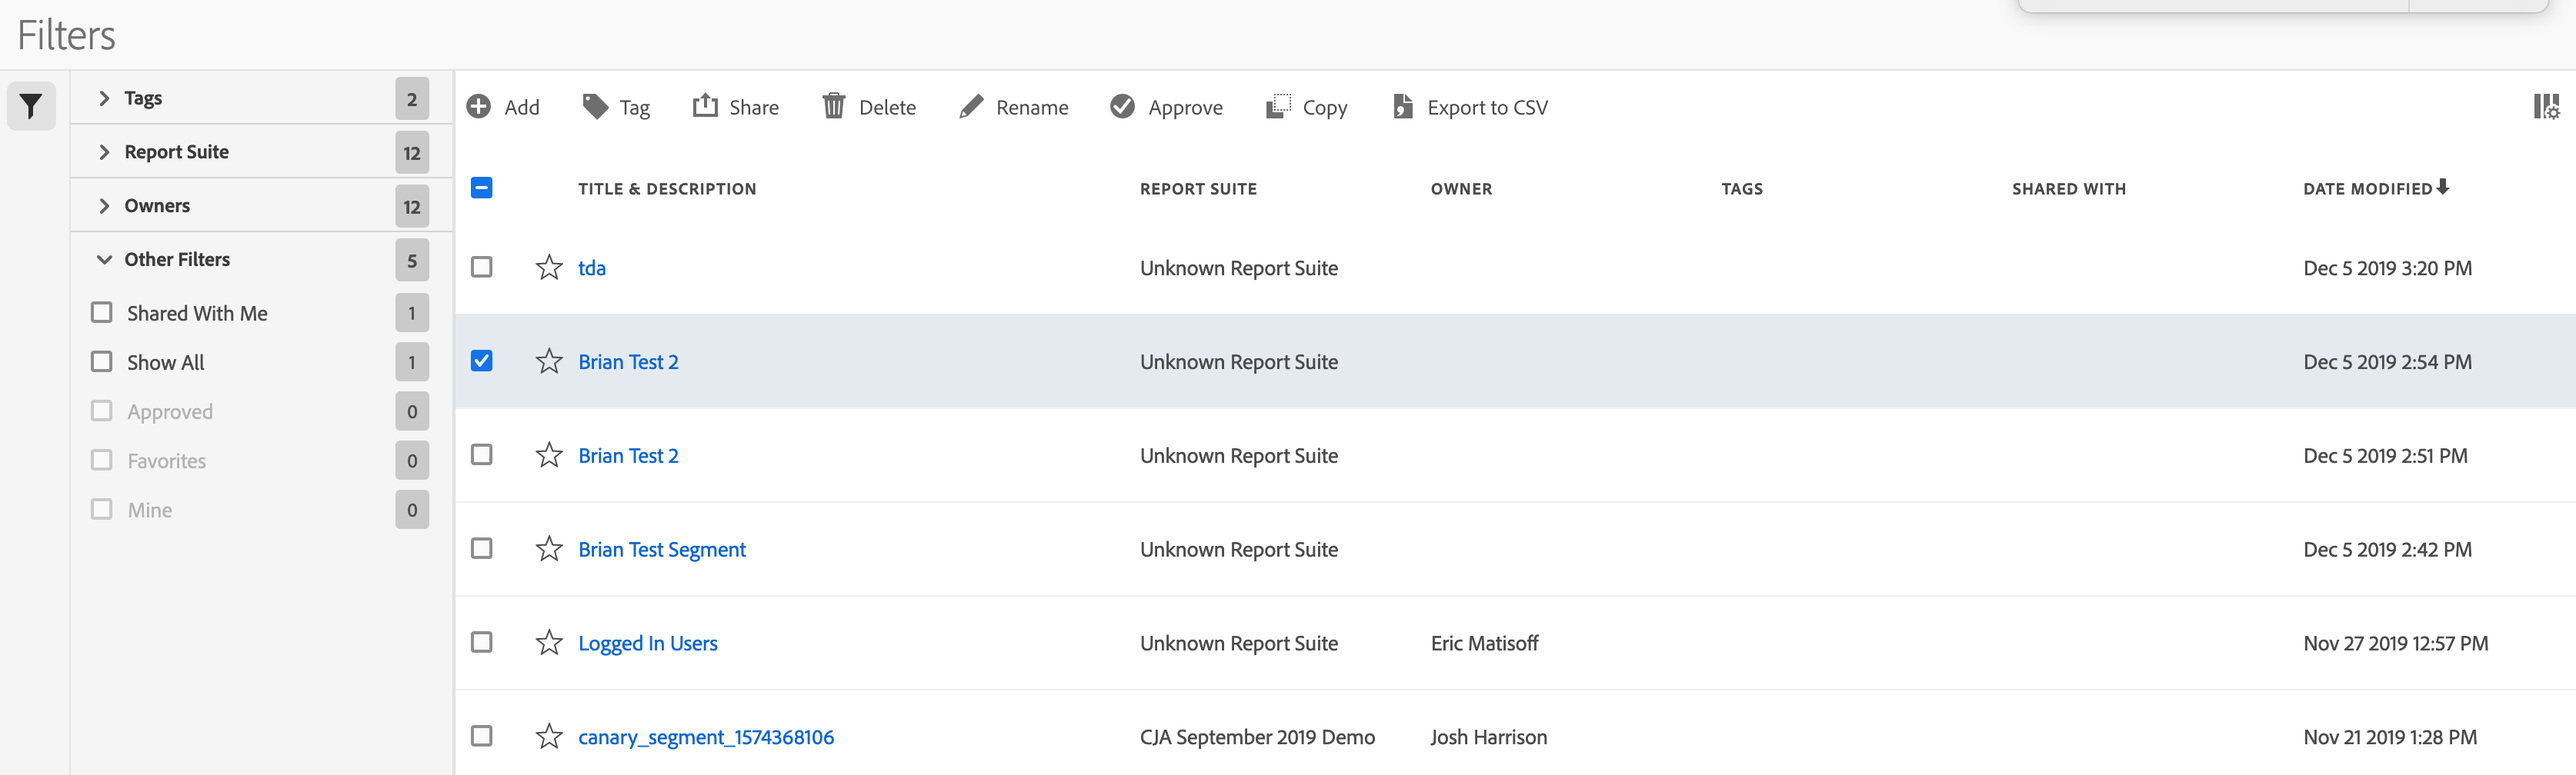
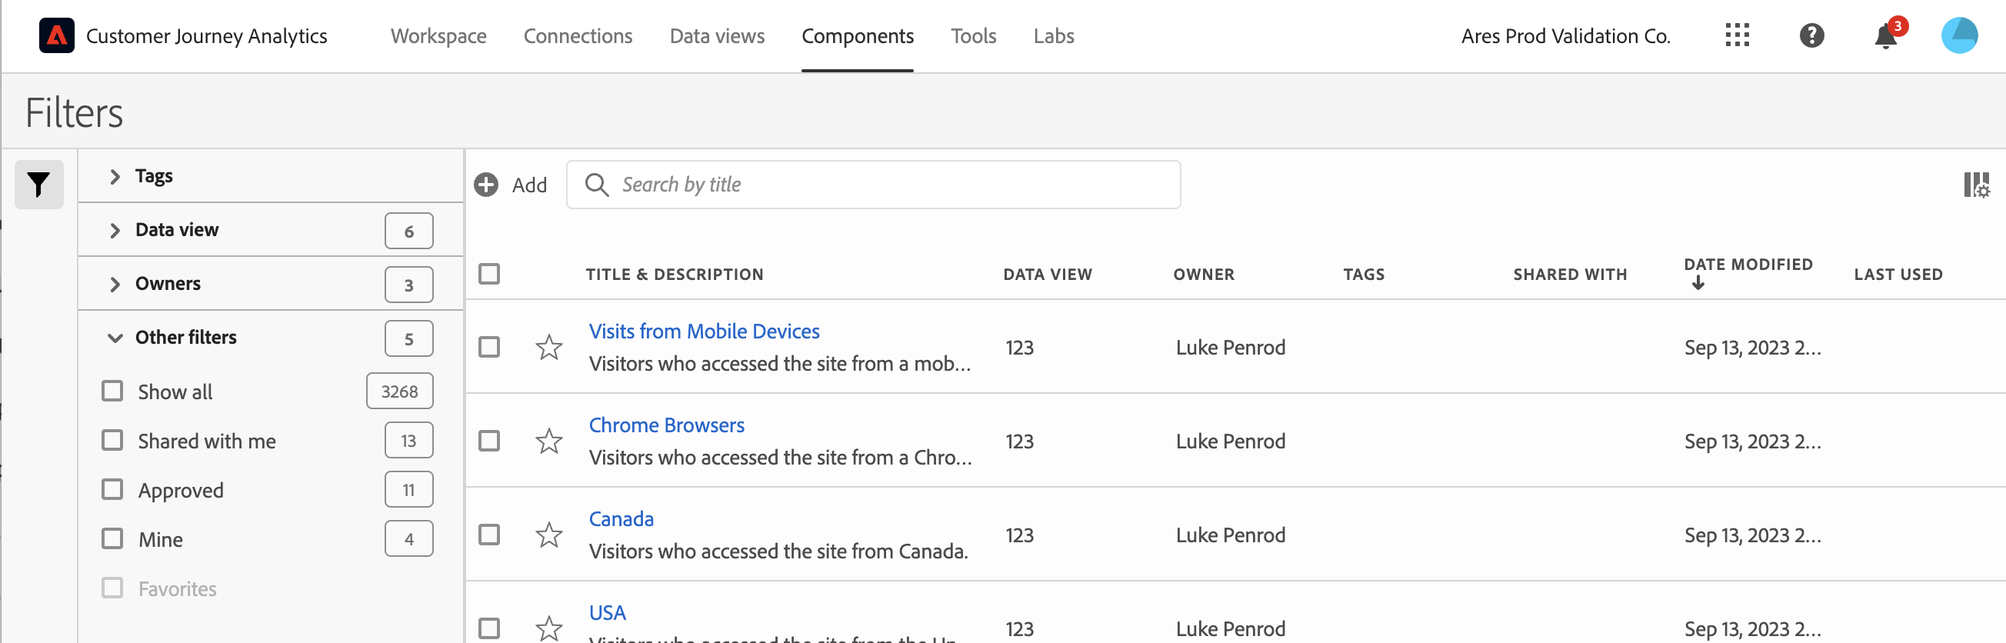
Updates

diff --git a/help/components/calc-metrics/cm-workflow/cm-manager.md b/help/components/calc-metrics/cm-workflow/cm-manager.md
@@ -8,17 +8,63 @@ exl-id: 8b257ecc-a596-4b34-ac26-eda16835f1ba
 
 The Calculated metric page offers many ways of curating metrics, such as sharing, filtering, tagging, approving, copying, deleting, and marking as favorites.
 
-The Calculated metric manager shows you all the filters you own and that have been shared with you. Admin-level users can see all custom metrics in the organization. This overview presents the user interface and the capabilities of the Calculated metric manager. Access it by
+The Calculated metric manager shows you all the filters you own and that have been shared with you. Admin-level users can see all custom metrics in the organization. This overview presents the user interface and the capabilities of the Calculated metric manager.
+
+![](assets/calc-metric-manager.png)
 
 ## Access the Calculated metrics manager
 
-1. In Adobe Analytics, select [!UICONTROL **Components**] > [!UICONTROL **Calculated metrics**].
+1. In Customer Journey Analytics, select [!UICONTROL **Components**] > [!UICONTROL **Calculated metrics**].
+
+## Available actions in the Calculated metrics manager
+
+In the Calculated metrics manager, you can:
+
+* [Filter calculated metrics](/help/components/calc-metrics/cm-workflow/cm-filter.md)
+
+* [Mark calculated metrics as favorites](/help/components/calc-metrics/cm-workflow/cm-favorite.md)
+
+* [Approve calculated metrics](/help/components/calc-metrics/cm-workflow/cm-approving.md)
+
+* [Tag calculated metrics](/help/components/calc-metrics/cm-workflow/cm-tagging.md)
+
+* [Share calculated metrics](/help/components/calc-metrics/cm-workflow/cm-sharing.md)
+
+* Export a calculated metric to a CSV file. 
+
+* [Copy calculated metrics](/help/components/calc-metrics/cm-workflow/cm-copy.md)
+
+* Delete calculated metrics
+
+## Configure columns
+
+You can configure the information displayed for each calculated metric in the Calculated metrics manager by configuring the columns that are displayed.
+
+To configure the visible columns in the Calculated metrics manager:
+
+1. In Customer Journey Analytics, select the **[!UICONTROL Components]** tab, then select **[!UICONTROL Calculated metrics]**. 
+
+1. In the Calculated metrics manager, select the **Customize columns** icon ![Customize columns icon](assets/customize-columns-icon.png), then select the columns that you want to be displayed in the Calculated metrics manager.
+
+   The following columns are available:
+
+   | Column title  | Description |
+   |---|---|
+   | Favorites  | Displays star icons next to each calculated metric, allowing you to mark calculated metrics as favorites. For more information, see [Mark calculated metrics as favorites](/help/components/calc-metrics/cm-workflow/cm-favorite.md). |
+   | Title and description | These values are provided in the Calculated metric builder. To edit the title and description, select the title link to open the Calculated metric builder.  |
+   | Report suite | Indicates in which report suite the metric was last saved.  |
+   | Owner | Indicates who owns the custom metric. As a non-admin, you can see only metrics you own or those that were shared with you.  |
+   | Tags | Shows tags that were applied to the metric, either by you or by people who shared the calculated metric with you.  |
+   | Shared with | Lists individuals or groups (admin only) or All (admin only) that you shared the calculated metric with. <p>When a calculated metric is being shared, a share icon displays next to the calculated metric name.</p>  |
+   | Date modified | Indicates the date when the custom metric was last modified.  |
+   | Used in | Shows in which of the following component types the calculated metric is currently being used: <ul><li>Alerts</li><li>Calculated metrics</li><li>Projects</li><li>Scheduled projects</li></ul> For example, if the components is being used in 40 projects and 2 alerts, this column shows [!UICONTROL **Alerts (2), Projects (40)**]. <p>This information can help you determine whether a component is valuable to users in your organization, or whether it should be deleted.</p><p>You can use the [Data Dictionary](/help/analyze/analysis-workspace/components/data-dictionary/data-dictionary-overview.md) along with this information to help you keep track of and better understand how components are being used in your organization. |
+   | Last used | Shows the date when the calculated metric was last used in any of the following component types: <ul><li>Alerts</li><li>Calculated metrics</li><li>Projects</li><li>Scheduled projects</li></ul> <p>This information can help you determine whether a component is valuable to users in your organization, or whether it should be deleted.</p><p>You can use the [Data Dictionary](/help/components/data-dictionary/data-dictionary-overview.md) along with this information to help you keep track of and better understand how components are being used in your organization. |
+
+   {style="table-layout:auto"}
 
 ## Areas of the Calculated metrics manager
 
 The following image and accompanying table explain some of the main areas and features of the Calculated metrics manager. 
-
-![](assets/calcmet_mgr_ui.png)
 
 | Location in image  | Name and function  |
 |---|---|

diff --git a/help/components/calc-metrics/cm-workflow/cm-filter.md b/help/components/calc-metrics/cm-workflow/cm-filter.md
@@ -1,0 +1,29 @@
+---
+description: Filter by tags, data view, owners, and other filters (Show All, Mine, Shared With me, Favorites, and Approved.)
+title: Filter calculated metrics
+feature: Calculated Metrics
+---
+# Filter calculated metrics
+Filter by tags, owners, and other filters (Show All, Mine, Shared With me, Favorites, and Approved.)
+
+Filtering makes it easier to search for calculated metrics in the segment rail.
+
+1. In Customer Journey Analytics, select the **[!UICONTROL Components]** tab, then select **[!UICONTROL Calculated metrics]**. 
+
+1. In the Calculated metrics manager, click the **[!UICONTROL Filters]** icon:  ![](https://spectrum.adobe.com/static/icons/workflow_18/Smock_Filter_18_N.svg)
+
+   ![](assets/filtering.png)
+
+2. The following filters are available:
+
+   |  Filter Name  | Description  |
+   |---|---|
+   |  Tags  |Lets you filter on calculated metrics with specific [tags](/help/components/calc-metrics/cm-workflow/cm-tagging.md). The Tags column is shown by default.  |
+   |  Owners  | Lets you filter calculated metrics by owner.  |
+   | Data view | Lets you filter calculated metrics by data view. |
+   |  Other Filters > Show All  | **(Admin only)** Shows all calculated metrics, their owner, and the last date they were modified.  |
+   |  Other Filters > Mine  | Shows all calculated metrics that you own.  |
+   |  Other Filters > Shared with me  |Shows all calculated metrics that others [shared](/help/components/calc-metrics/cm-workflow/cm-sharing.md) with you.  |
+   |  Other Filters > Favorites  |Shows all calculated metrics you marked as [Favorites](/help/components/calc-metrics/cm-workflow/cm-favorite.md).  |
+   |  Other Filters > Approved  |Shows all officially [approved](/help/components/calc-metrics/cm-workflow/cm-approving.md) calculated metrics.  |
+   |  Search calculated metrics  | Lets you search for calculated metrics by name.  |

diff --git a/help/components/filters/manage-filters.md b/help/components/filters/manage-filters.md
@@ -10,11 +10,13 @@ The Filter Manager offers many ways of curating filters, such as sharing, taggin
 
 The Filter Manager shows you all the filters you own and that have been shared with you. Admin-level users can see all filters in the organization. This overview presents the user interface and the capabilities of the Filter Manager. 
 
-Access the Filter Manager by going to **[!UICONTROL Customer Journey Analysis]** > **[!UICONTROL Components]** > **[!UICONTROL Filters]** in the top navigation.
+![](assets/filter-manager-ui.png)
+
+## Access the Filter manager
+
+1. In Customer Journey Analytics, select the **[!UICONTROL Components]** tab, then select **[!UICONTROL Filters]**.
 
 ## Filter Manager UI {#ui}
-
-![](assets/filter-manager-ui.png)
 
 |  #  | UI Feature  | Description  |
 |---|---|---|

diff --git a/help/components/calc-metrics/cm-workflow/cm-favorite.md b/help/components/calc-metrics/cm-workflow/cm-favorite.md
@@ -1,0 +1,16 @@
+---
+description: Marking calculated metrics as favorites is another way to organize them for ease of use.
+title: Mark calculated metrics as favorites
+feature: Calculated Metrics
+---
+# Mark calculated metrics as favorites
+
+Marking calculated metrics as favorites is another way to organize them for ease of use.
+
+1. In Customer Journey Analytics, select the **[!UICONTROL Components]** tab, then select **[!UICONTROL Calculated metrics]**. 
+
+1. In the Calculated metrics manager, check the star next to any calculated metric that you want to mark as a favorite. It should now appear as a yellow star:
+
+   ![](assets/favorites.png)
+
+1. You can also filter on favorites under **[!UICONTROL Filters]** > **[!UICONTROL Other Filters]** > **[!UICONTROL Favorites]**.

diff --git a/help/components/calc-metrics/cm-workflow/cm-copy.md b/help/components/calc-metrics/cm-workflow/cm-copy.md
@@ -1,0 +1,18 @@
+---
+description: Describes how to copy a calculated metric in the Calculated metrics manager
+title: Copy calculated metrics
+feature: Calculated Metrics
+---
+# Copy calculated metrics
+
+When creating a new calculated metric, it's sometimes easier to copy an existing calculated metric that is close to the calculated metric that you want to create, then modify the version you copied.
+
+To copy a calculated metrics in the Calculated metrics manager:
+
+1. In Customer Journey Analytics, select the **[!UICONTROL Components]** tab, then select **[!UICONTROL Calculated metrics]**. 
+
+1. In the Calculated metrics manager, select the calculated metric that you want to copy. 
+
+   The calculated metric management tool bar appears.
+
+1. Select **[!UICONTROL Copy]**.

diff --git a/help/components/calc-metrics/cm-workflow/cm-approving.md b/help/components/calc-metrics/cm-workflow/cm-approving.md
@@ -16,7 +16,7 @@ In the Calculated metric manager, administrators can set up a workflow that incl
 
 To mark calculated metrics as approved:
 
-1. In Customer Journey Analytics, select [!UICONTROL **Components**] > [!UICONTROL **Calculated metrics**] to go to the Calculated metrics manager.
+1. In Customer Journey Analytics, select [!UICONTROL **Components**] > [!UICONTROL **Calculated metrics**].
 
 1. In Calculated metric manager, select the checkbox to the left of any metrics that you want to mark as approved.
 

diff --git a/help/components/calc-metrics/cm-workflow/cm-tagging.md b/help/components/calc-metrics/cm-workflow/cm-tagging.md
@@ -21,7 +21,7 @@ All users can create tags for calculated metrics and apply one or more tags to a
 
 ## Apply tags to a calculated metric
 
-1. In Customer Journey Analytics, select [!UICONTROL **Components**] > [!UICONTROL **Calculated metrics**] to go to the Calculated metric manager.
+1. In Customer Journey Analytics, select [!UICONTROL **Components**] > [!UICONTROL **Calculated metrics**].
 
 1. In the Calculated metrics manager, select the checkbox next to any metrics that you want to tag.
 
